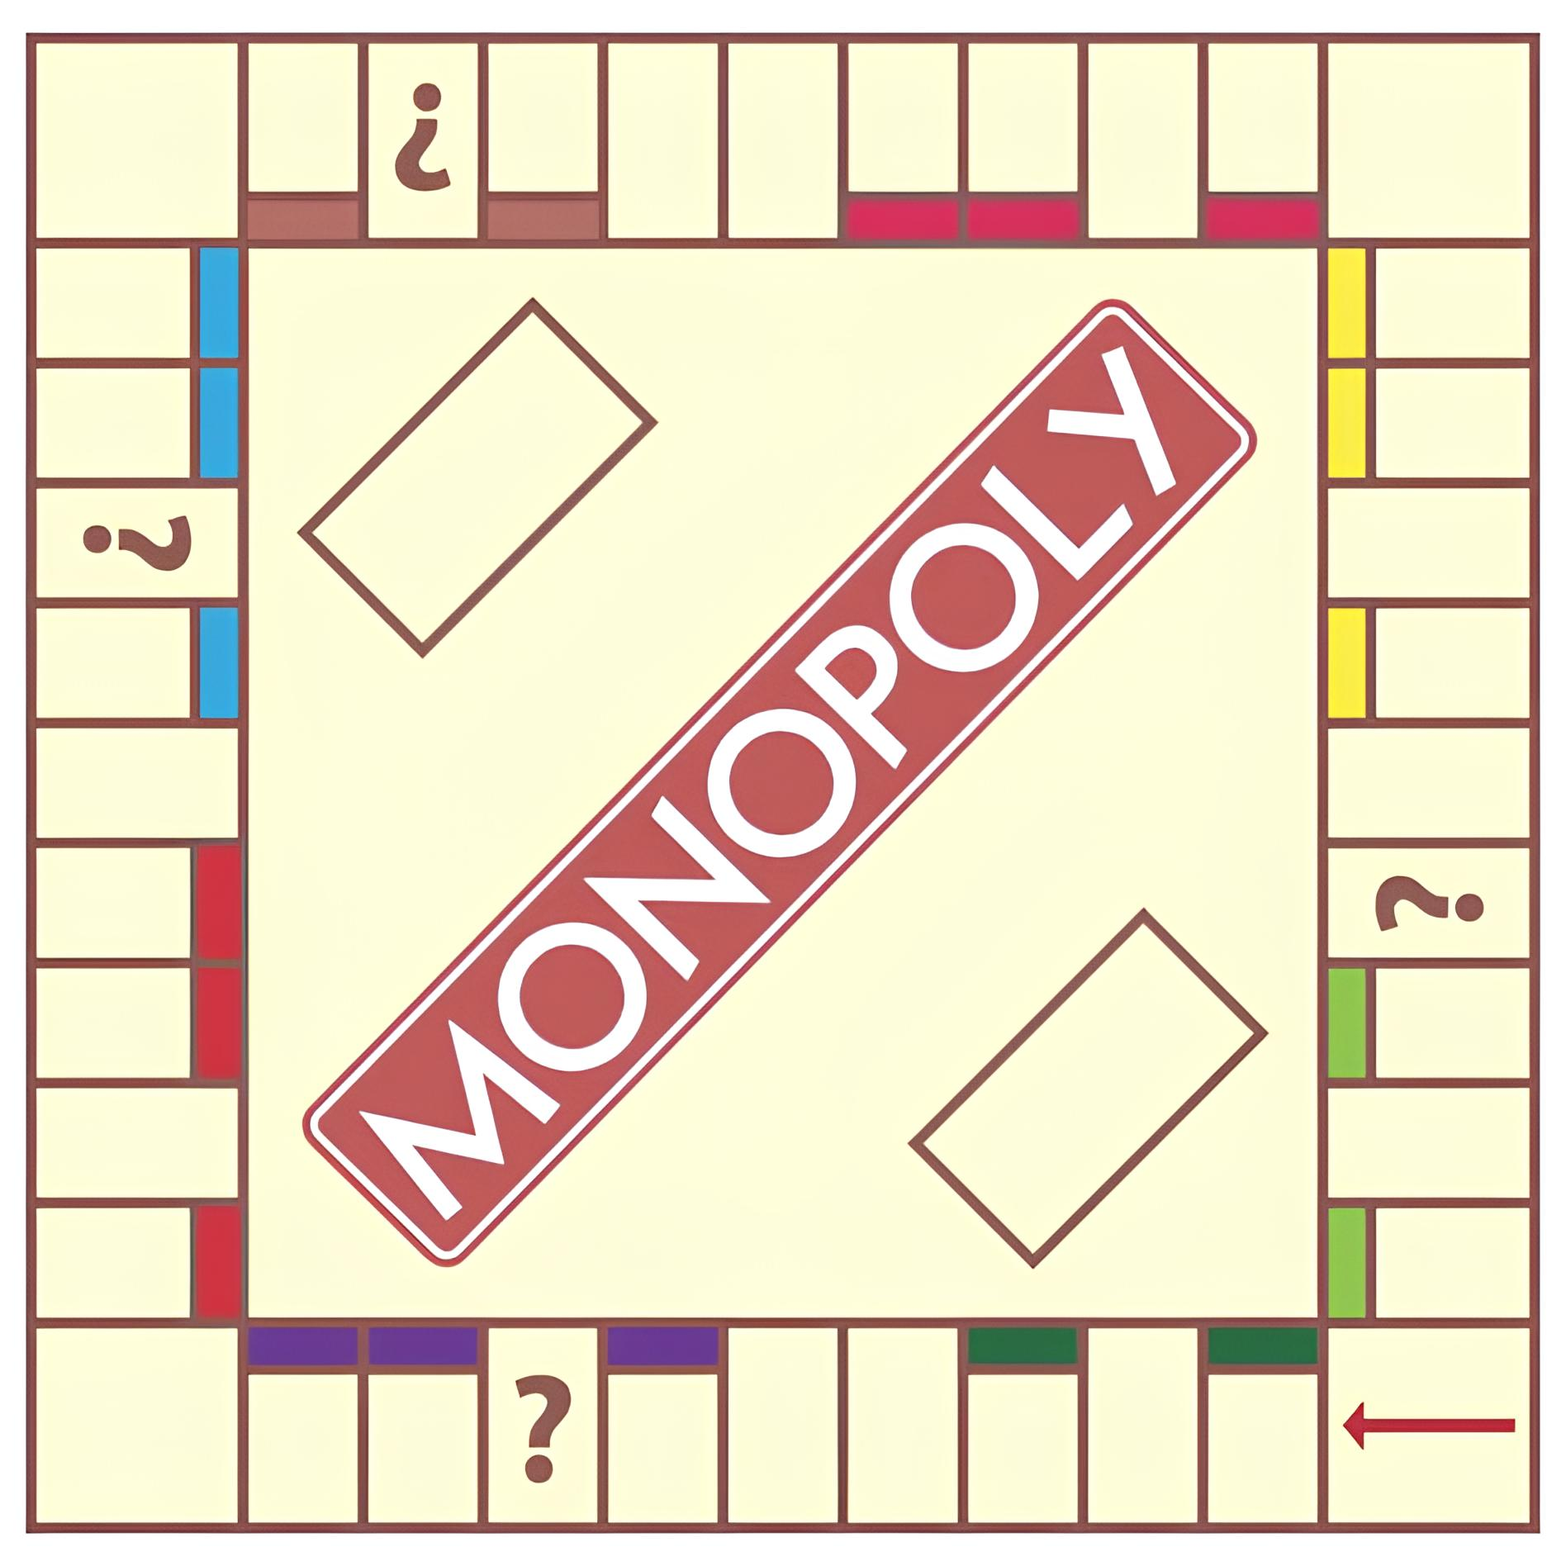
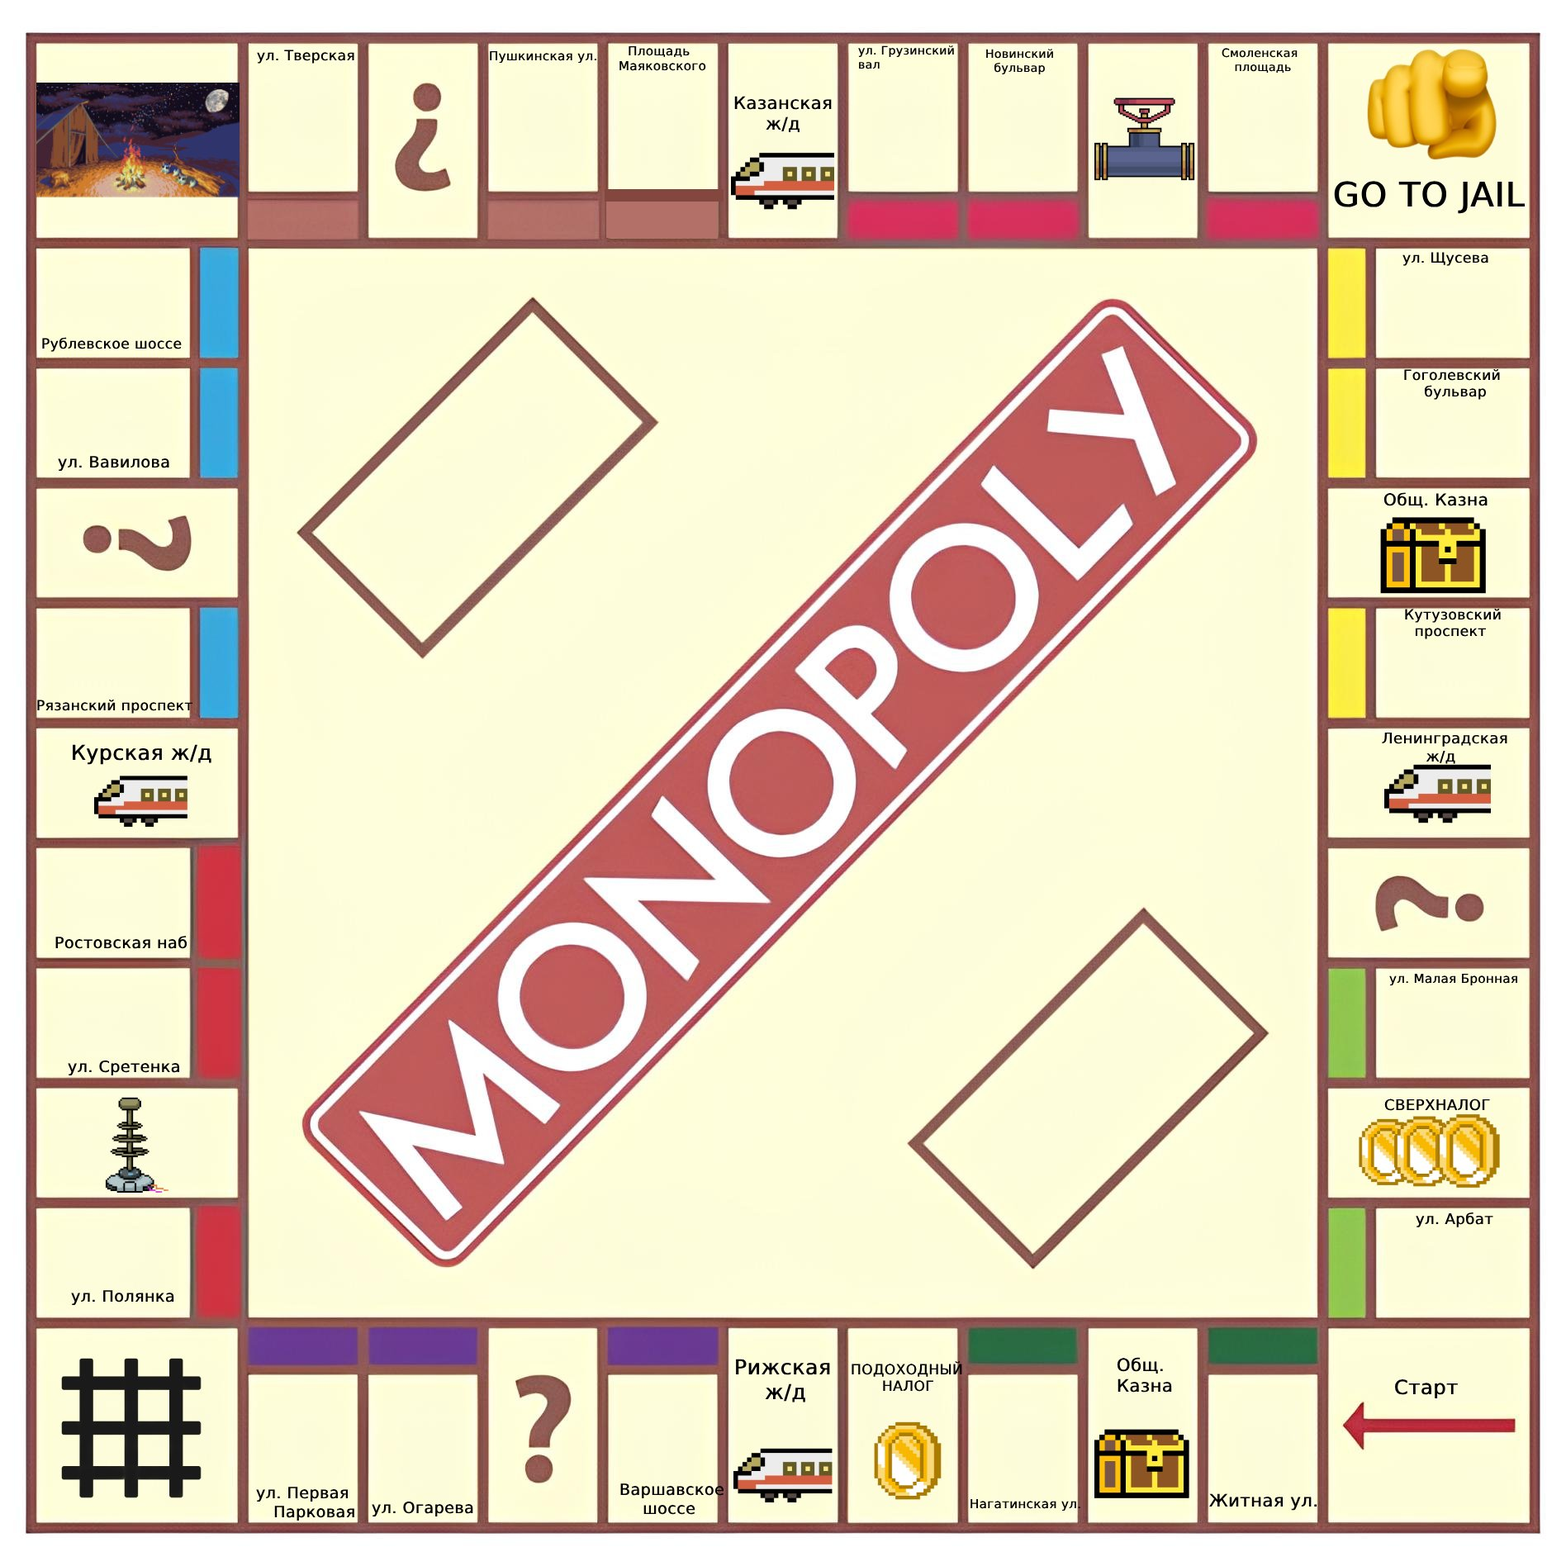
final steps: fix design and some stuff

diff --git a/Board/Board.cpp b/Board/Board.cpp
@@ -6,79 +6,80 @@ namespace Board {
 Board::Board() { initialize(); }
 void Board::initialize() {
   board.emplace_back("старт", "Старт", 0, 0, -1, 970, 730, 0, -1, "-");
-  board.emplace_back("улица", "Житная ул.", 60, 2, -1, 890, 730, 0, 150,
+  board.emplace_back("улица", "Житная ул.", 60, 2, 2, 890, 730, 0, 50,
                      "зеленый");
   board.emplace_back("казна", "Общественная казна", 0, 0, -1, 830, 730, 0, -1,
                      "-");
-  board.emplace_back("улица", "ул. Нагатинская", 60, 4, -1, 770, 730, 0, 150,
+  board.emplace_back("улица", "ул. Нагатинская", 60, 4, 2, 770, 730, 0, 50,
                      "зеленый");
   board.emplace_back("налог", "Подоходный налог", 0, 200, -1, 705, 730, 0, -1,
                      "-");
-  board.emplace_back("имущество", "Рижская ж/д", 200, 25, -1, 645, 730, 0, -1,
+  board.emplace_back("имущество", "Рижская ж/д", 200, 25, 1, 645, 730, 0, -1,
                      "-");
-  board.emplace_back("улица", "Варшавское шоссе", 100, 6, -1, 585, 730, 0, 150,
+  board.emplace_back("улица", "Варшавское шоссе", 100, 6, 1, 585, 730, 0, 100,
                      "фиолетовый");
   board.emplace_back("шанс", "Шанс", 0, 0, -1, 520, 730, 0, -1, "-");
-  board.emplace_back("улица", "ул. Огарева", 100, 6, -1, 460, 730, 0, 150,
+  board.emplace_back("улица", "ул. Огарева", 100, 6, 1, 460, 730, 0, 100,
                      "фиолетовый");
-  board.emplace_back("улица", "ул. Первая Парковая", 120, 8, -1, 400, 730, 0,
-                     150, "фиолетовый");
+  board.emplace_back("улица", "ул. Первая Парковая", 120, 8, 1, 400, 730, 0,
+                     100, "фиолетовый");
   board.emplace_back("тюрьма", "Тюрьма", 0, 0, -1, 300, 730, 0, -1, "-");
-  board.emplace_back("улица", "ул. Полянка", 140, 10, -1, 300, 650, 0, 150,
+  board.emplace_back("улица", "ул. Полянка", 140, 10, 1, 300, 650, 0, 150,
                      "красный");
-  board.emplace_back("имущество", "Электростанция", 150, 18, -1, 300, 590, 0, 0,
+  board.emplace_back("имущество", "Электростанция", 150, 18, 2, 300, 590, 0, 0,
                      "-");
-  board.emplace_back("улица", "ул. Сретенка", 140, 12, -1, 300, 525, 0, 150,
+  board.emplace_back("улица", "ул. Сретенка", 140, 12, 3, 300, 525, 0, 150,
                      "красный");
-  board.emplace_back("улица", "Ростовская наб.", 160, 12, -1, 300, 468, 0, 150,
+  board.emplace_back("улица", "Ростовская наб.", 160, 12, 2, 300, 468, 0, 150,
                      "красный");
-  board.emplace_back("имущество", "Курская ж/д", 200, 25, -1, 300, 405, 0, -1,
+  board.emplace_back("имущество", "Курская ж/д", 200, 25, 1, 300, 405, 0, -1,
                      "-");
-  board.emplace_back("улица", "Рязанский проспект", 180, 14, -1, 300, 345, 0,
-                     150, "голубой");
+  board.emplace_back("улица", "Рязанский проспект", 180, 14, 3, 300, 345, 0,
+                     200, "голубой");
   board.emplace_back("шанс", "Шанс", 0, 0, -1, 300, 280, 0, -1, "-");
-  board.emplace_back("улица", "ул. Вавилова", 180, 14, -1, 300, 220, 0, 150,
+  board.emplace_back("улица", "ул. Вавилова", 180, 14, 2, 300, 220, 0, 200,
                      "голубой");
-  board.emplace_back("улица", "Рублевское шоссе", 200, 16, -1, 300, 160, -1,
-                     150, "голубой");
+  board.emplace_back("улица", "Рублевское шоссе", 200, 16, 1, 300, 160, 0, 200,
+                     "голубой");
   board.emplace_back("стоянка", "Бесплатная стоянка", 0, 0, -1, 300, 70, -1, -1,
                      "-");
-  board.emplace_back("улица", "ул. Тверская", 220, 18, -1, 400, 70, 0, 150,
+  board.emplace_back("улица", "ул. Тверская", 220, 18, 2, 400, 70, 0, 250,
                      "коричневый");
   board.emplace_back("шанс", "Шанс", 0, 0, -1, 460, 70, 0, -1, "-");
-  board.emplace_back("улица", "Пушкинская ул.", 220, 18, -1, 520, 70, 0, 150,
+  board.emplace_back("улица", "Пушкинская ул.", 220, 18, 3, 520, 70, 0, 250,
                      "коричневый");
-  board.emplace_back("улица", "Площадь Маяковского", 240, 20, -1, 585, 70, 0,
-                     150, "коричневый");
-  board.emplace_back("имущество", "Казанская ж/д", 200, 25, -1, 645, 70, -1, -1,
+  board.emplace_back("улица", "Площадь Маяковского", 240, 20, 1, 585, 70, 0,
+                     250, "коричневый");
+  board.emplace_back("имущество", "Казанская ж/д", 200, 25, 1, 645, 70, -1, -1,
                      "-");
-  board.emplace_back("улица", "ул. Грузинский вал", 260, 22, -1, 705, 70, -1,
-                     150, "розовый");
-  board.emplace_back("улица", "Новинский бульвар", 260, 24, -1, 765, 70, -1,
-                     150, "розовый");
-  board.emplace_back("имущество", "Водоканал", 150, 18, -1, 830, 70, 0, -1,
+  board.emplace_back("улица", "ул. Грузинский вал", 260, 22, 2, 705, 70, 0,
+                     300, "розовый");
+  board.emplace_back("улица", "Новинский бульвар", 260, 24, 2, 765, 70, 0, 300,
+                     "розовый");
+  board.emplace_back("имущество", "Водоканал", 150, 18, 3, 830, 70, 0, -1,
                      "-");
-  board.emplace_back("улица", "Смоленская площадь", 280, 26, -1, 890, 70, -1,
-                     150, "розовый");
+  board.emplace_back("улица", "Смоленская площадь", 280, 26, 2, 890, 70, 0,
+                     300, "розовый");
   board.emplace_back("тюрьма", "Отправляйся в тюрьму", 0, 0, -1, 970, 70, -1,
                      -1, "-");
-  board.emplace_back("улица", "ул. Щусева", 300, 28, -1, 970, 160, 0, 150,
+  board.emplace_back("улица", "ул. Щусева", 300, 28, 2, 970, 160, 0, 350,
                      "желтый");
-  board.emplace_back("улица", "Гоголевский бульвар", 300, 28, -1, 970, 220, 0,
-                     150, "желтый");
+  board.emplace_back("улица", "Гоголевский бульвар", 300, 28, 1, 970, 220, 0,
+                     350, "желтый");
   board.emplace_back("казна", "Общественная казна", 0, 0, -1, 970, 280, 0, -1,
                      "-");
-  board.emplace_back("улица", "Кутузовский проспект", 320, 30, -1, 970, 345, 0,
-                     150, "желтый");
-  board.emplace_back("имущество", "Ленинградская ж/д", 200, 25, -1, 970, 405, 0,
+  board.emplace_back("улица", "Кутузовский проспект", 320, 30, 1, 970, 345, 0,
+                     350, "желтый");
+  board.emplace_back("имущество", "Ленинградская ж/д", 200, 25, 2, 970, 405, 0,
                      0, "-");
   board.emplace_back("шанс", "Шанс", 0, 0, -1, 970, 465, 0, -1, "-");
-  board.emplace_back("улица", "ул. Малая Бронная", 350, 32, -1, 970, 525, 0,
-                     150, "салатовый");
+  board.emplace_back("улица", "ул. Малая Бронная", 350, 32, 3, 970, 525, 0,
+                     400, "салатовый");
   board.emplace_back("налог", "Сверхналог", 0, 100, -1, 970, 590, 0, -1, "-");
-  board.emplace_back("улица", "ул. Арбат", 400, 34, -1, 970, 650, 0, 150,
+  board.emplace_back("улица", "ул. Арбат", 400, 34, 1, 970, 650, 0, 400,
                      "салатовый");
 }
+
 void Board::printBoard() {
   for (int i = 0; i < board.size(); ++i) {
     std::cout << board[i].getName() << ' ' << board[i].getOwnerIndex() << ' '

diff --git a/Interface/Game.cpp b/Interface/Game.cpp
@@ -50,6 +50,14 @@ void Game::loadResources() {
     gameBackgroundSprite.setTexture(gameBackgroundTexture);
     updateGameBackground();
   }
+
+  if (!markerTexture.loadFromFile("../assets/home.jpg")) {
+    std::cerr << "Не удалось загрузить фон assets/home.jpg!" << std::endl;
+  } else {
+    markerTexture.setSmooth(true);
+    markerSprite.setTexture(markerTexture);
+    updateGameBackground();
+  }
 }
 
 bool Game::IsPositionValid(int position) const {
@@ -267,6 +275,10 @@ void Game::setupMessageBoxUI() {
   messageBoxOkText.setOrigin(textBounds.left + textBounds.width / 2.0f,
                              textBounds.top + textBounds.height / 2.0f);
   messageBoxOkText.setPosition(messageBoxOkButton.getPosition());
+
+  markerText.setFont(gameFont);
+  markerText.setCharacterSize(14);
+  markerText.setFillColor(sf::Color::Black);
 }
 
 void Game::setupPlayers(int numberOfPlayers) {
@@ -327,11 +339,12 @@ Game::GameAction Game::run() {
     updateUI();
     render();
   }
-  if (currentState == State::Running || previousState == State::Running) {
-    return GameAction::WindowClosed;
-  } else {
+
+  if (currentState == State::GameOver) {
     return GameAction::Continue;
   }
+
+  return GameAction::WindowClosed;
 }
 
 void Game::handleEvents() {
@@ -383,19 +396,35 @@ void Game::handleEvents() {
       handleMessageBoxInput(event);
       break;
     case State::GameOver:
+      handleGameOverMessage();
       break;
     }
   }
 }
 
+void Game::handleGameOverMessage() {
+  std::wstring text = L"Победитель игры:\n";
+  for (int i = 0; i < players.size(); ++i) {
+    if (!players[i].GetBankrupt()) {
+      text += L"Игрок " + std::to_wstring(i + 1) + L"\n";
+      text += L"С балансом: $" + std::to_wstring(players[i].GetMoney()) + L"\n";
+    }
+  }
+
+  messageBoxText.setString(text);
+  sf::FloatRect textBounds = messageBoxText.getLocalBounds();
+  messageBoxText.setOrigin(textBounds.left + textBounds.width / 2.0f,
+                           textBounds.top + textBounds.height / 2.0f);
+  messageBoxText.setPosition(messageBoxBackground.getPosition().x,
+                             messageBoxBackground.getPosition().y);
+
+  previousState = currentState;
+  currentState = State::DisplayingMessage;
+}
+
 void Game::handleGameInput(sf::Event event) {
   if (Players::Players::IsEnd(players)) {
     currentState = State::GameOver;
-  }
-
-  if (currentState != State::Running) {
-    gameWindow.close();
-    return;
   }
 
   if (event.type == sf::Event::MouseButtonPressed &&
@@ -511,24 +540,26 @@ void Game::handleMessageBoxInput(sf::Event event) {
       event.mouseButton.button == sf::Mouse::Left) {
     sf::Vector2f mousePos =
         gameWindow.mapPixelToCoords({event.mouseButton.x, event.mouseButton.y});
+
     if (messageBoxOkButton.getGlobalBounds().contains(mousePos)) {
       State stateBeforeMessage = previousState;
       currentState = previousState;
 
-      if (rolledDoubleCurrentMove && !players[currentPlayerIndex].IsInJail()) {
-        diceResultText.setString(L"Дубль! Бросайте снова.");
-        actionRequired = false;
-        turnInProgress = true;
-
-        showRollDiceButton = true;
-        rollDiceButton.setFillColor(sf::Color::Green);
-        showBuyButton = false;
-        showEndTurnButton = false;
-        rolledDoubleCurrentMove = false;
+      if (stateBeforeMessage == State::GameOver) {
+        gameWindow.close();
       } else {
-        rolledDoubleCurrentMove = false;
-        if (stateBeforeMessage == State::Running) {
-          if (!turnInProgress && !actionRequired) {
+        if (rolledDoubleCurrentMove &&
+            !players[currentPlayerIndex].IsInJail()) {
+          diceResultText.setString(L"Дубль! Бросайте снова.");
+          actionRequired = false;
+          turnInProgress = true;
+          showRollDiceButton = true;
+          rollDiceButton.setFillColor(sf::Color::Green);
+          rolledDoubleCurrentMove = false;
+        } else {
+          rolledDoubleCurrentMove = false;
+          if (stateBeforeMessage == State::Running && !turnInProgress &&
+              !actionRequired) {
             startNextTurn();
           }
         }
@@ -899,15 +930,10 @@ void Game::playerAction_PayFee() {
     showMessage(messageToDisplay, false);
 
     currentPlayer.SetBankrupt(true);
+    playerAction_EndTurn();
   }
   updateUI();
-}
-
-void Game::playerAction_BeBankrupt() {
-  if (!actionRequired || !showBuyButton)
-    return;
-  Players::Players &currentPlayer = players[currentPlayerIndex];
-  currentPlayer.SetBankrupt(1);
+  updatePlayerTokens();
 }
 
 void Game::playerAction_BuyProperty() {
@@ -1200,10 +1226,16 @@ void Game::updatePlayerTokens() {
                   << i + 1 << " в updatePlayerTokens." << std::endl;
         continue;
       }
-      sf::Vector2f screenPos = getPositionOnScreen(pos);
-      float offsetX = baseOffsetX + playersOnCell[pos] * incrementX;
-      float offsetY = baseOffsetY + playersOnCell[pos] * incrementY;
-      playerTokens[i].setPosition(screenPos.x + offsetX, screenPos.y + offsetY);
+
+      if (!players[i].GetBankrupt()) {
+        sf::Vector2f screenPos = getPositionOnScreen(pos);
+        float offsetX = baseOffsetX + playersOnCell[pos] * incrementX;
+        float offsetY = baseOffsetY + playersOnCell[pos] * incrementY;
+        playerTokens[i].setPosition(screenPos.x + offsetX,
+                                    screenPos.y + offsetY);
+      } else {
+        playerTokens[i].setPosition(-1000, -1000);
+      }
       playersOnCell[pos]++;
     }
   }
@@ -1286,17 +1318,60 @@ void Game::render() {
 }
 
 void Game::renderGame() {
-  for (const auto &token : playerTokens) {
-    gameWindow.draw(token);
+  for (int i = 0; i < gameBoard.board.size(); ++i) {
+    auto &cell = gameBoard.board[i];
+    if (cell.getLVL() > 0) {
+      int x = cell.getPosX();
+      int y = cell.getPosY();
+      if (i > 0 && i < 10) {
+        markerSprite.setPosition(x + 1, y - 28);
+        markerText.setString(std::to_wstring(cell.getLVL()));
+        markerText.setPosition(x - 10, y - 27);
+      } else if (i > 10 && i < 20) {
+        markerSprite.setPosition(x + 14, y - 31);
+        markerText.setString(std::to_wstring(cell.getLVL()));
+        markerText.setPosition(x + 3, y - 30);
+      } else if (i > 20 && i < 30) {
+        markerSprite.setPosition(x + 2, y + 7);
+        markerText.setString(std::to_wstring(cell.getLVL()));
+        markerText.setPosition(x - 9, y + 8);
+      } else if (i > 30 && i < 40) {
+        markerSprite.setPosition(x - 14, y + 2);
+        markerText.setString(std::to_wstring(cell.getLVL()));
+        markerText.setPosition(x - 25, y + 3);
+      }
+      gameWindow.draw(markerSprite);
+      gameWindow.draw(markerText);
+    }
   }
 
-  for (const auto &cell : gameBoard.board) {
-    if (cell.getLVL() > 0) {
-      sf::CircleShape levelMarker(5.f);
-      levelMarker.setPosition(cell.getPosX() + 10, cell.getPosY() + 10);
-      levelMarker.setFillColor(sf::Color::Red);
-      gameWindow.draw(levelMarker);
+  std::vector<sf::Color> colors = {sf::Color::Red, sf::Color::Blue,
+                                   sf::Color::Green, sf::Color::Yellow};
+
+  for (int i = 0; i < gameBoard.board.size(); ++i) {
+    auto &cell = gameBoard.board[i];
+    if (cell.getOwnerIndex() != -1) {
+      sf::RectangleShape rectangle(sf::Vector2f(15.f, 15.f));
+      rectangle.setFillColor(colors[cell.getOwnerIndex() - 1]);
+      int x = cell.getPosX();
+      int y = cell.getPosY();
+      if (i > 0 && i < 10) {
+        rectangle.setPosition(x, y);
+      } else if (i > 10 && i < 20) {
+        rectangle.setPosition(x, y);
+
+      } else if (i > 20 && i < 30) {
+        rectangle.setPosition(x, y);
+
+      } else if (i > 30 && i < 40) {
+        rectangle.setPosition(x, y);
+      }
+      gameWindow.draw(rectangle);
     }
+  }
+
+  for (const auto &token : playerTokens) {
+    gameWindow.draw(token);
   }
 
   if (showRollDiceButton) {

diff --git a/Interface/Game.hpp b/Interface/Game.hpp
@@ -24,6 +24,10 @@ private:
   sf::Sprite gameBackgroundSprite;
   sf::Font gameFont;
 
+  sf::Texture markerTexture;
+  sf::Sprite markerSprite;
+  sf::Text markerText;
+
   enum class State { Running, ConfirmingExit, DisplayingMessage, GameOver };
   State currentState;
   State previousState;
@@ -120,7 +124,7 @@ private:
   void playerAction_SellProperty();
   void playerAction_BuildHouse();
   void playerAction_SellHouse();
-  void playerAction_BeBankrupt();
   void playerAction_EndTurn();
+  void handleGameOverMessage();
   void showMessage(const std::wstring &message, bool endTurnAfter = true);
 };

diff --git a/Players/Player.cpp b/Players/Player.cpp
@@ -55,9 +55,11 @@ void Players::BuyStreet(std::vector<Streets::Streets> &board, int index) {
     return;
   }
 }
+
 void Players::Print() {
   std::cout << bankrupt << " " << money << " " << position << std::endl;
 }
+
 void Players::UpgradeStreet(std::vector<Streets::Streets> &board, int index) {
   if (board[position].getType() != "улица") {
     std::cout << "Это не улица, нельзя прокачать";
